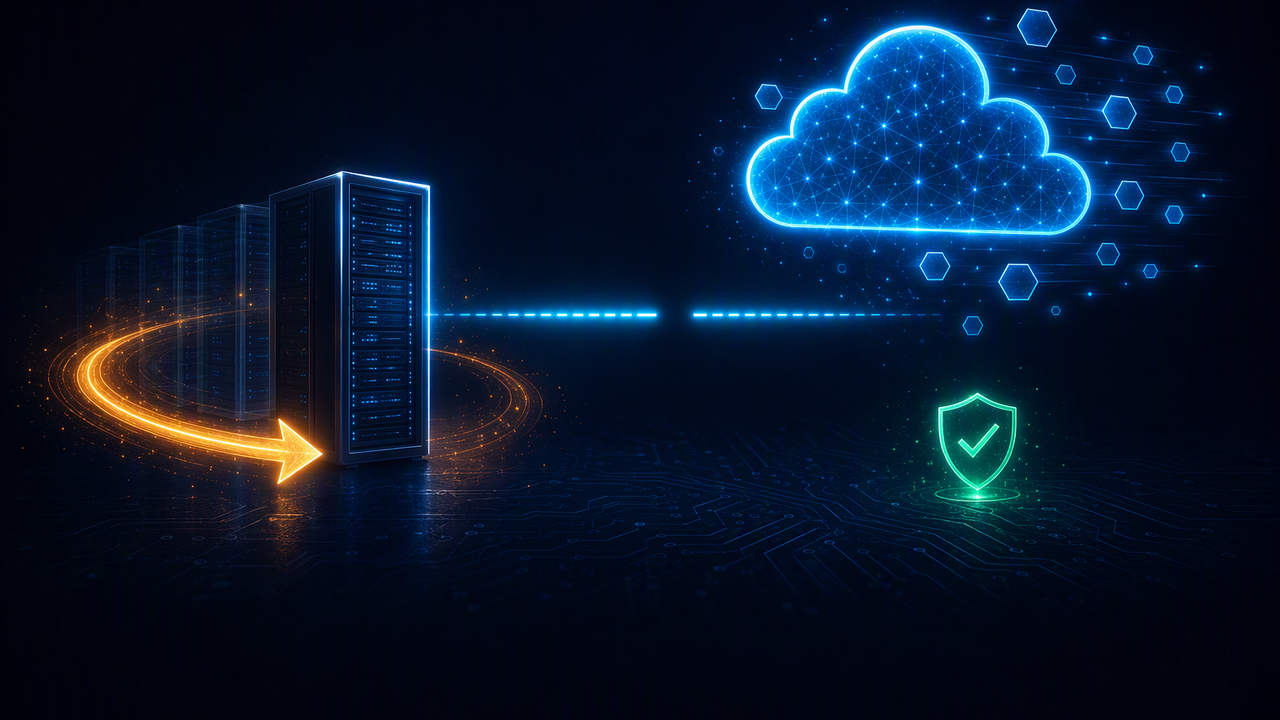
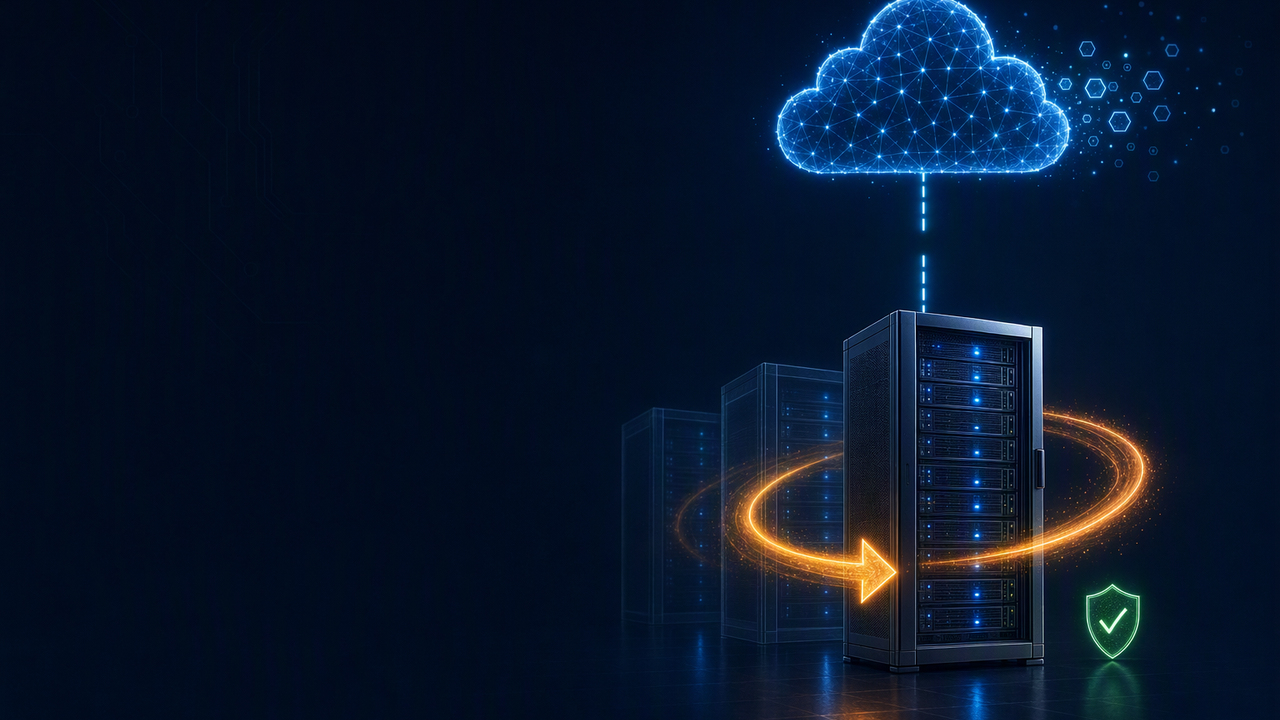
feat: サムネイルを全面的に作り直し (#28)
図の上に文字を重ねる構成をやめ、左45%をテキスト専用の余白として
背景を生成し直した。文字は図に一切かからない。

- 背景プロンプトに「左45%はほぼ空にする」を明示（quality=high で再生成）
- 左に ロゴ / Azure Arc / 見出し2行 / 開催日 を縦に整列
- テキスト幅は _fit() でゾーン内に自動収束させ、図へのはみ出しを防止

diff --git a/HCCJP_77/make_thumbnail.py b/HCCJP_77/make_thumbnail.py
@@ -1,18 +1,19 @@
 #!/usr/bin/env python3
 """HCCJP 第77回サムネイル合成スクリプト（再現用）
 
-thumbnail_bg.png（GPT Image 2 生成・文字ゼロ）に、見出し・開催日・HCCJPの実ロゴを
-合成して thumbnail.png を出力する。
+thumbnail_bg.png（GPT Image 2 生成・文字ゼロ）の左側の余白へ、見出し・開催日・
+HCCJPの実ロゴを合成して thumbnail.png を出力する。
 
-背景に文字を描かせない方針:
-    画像生成に文字を描かせると、指示していない年号・ラベル・数値が捏造される。
-    背景は象徴図のみとし、日本語はすべてこのスクリプトで載せる。
+設計:
+  - 背景は「左45%を空ける」ことを条件に生成し、文字は図に一切重ねない
+  - 画像生成に文字を描かせると年号やラベルが捏造されるため、日本語はすべてここで載せる
+  - ロゴもAIに描かせず実ファイル（Images/hcc-logo02f.png）を合成する
 
 背景の再生成:
     python3 ~/.claude/skills/image-gen/scripts/gpt_image.py \
-        --prompt-file thumbnail_prompt.txt --size 1536x1024 --quality medium \
+        --prompt-file thumbnail_prompt.txt --size 1536x1024 --quality high \
         --output thumbnail_bg_raw.png
-    # 1536x1024 -> 1280x853 に縮小し、上下をセンタークロップして 1280x720 にする
+    python3 -c "from PIL import Image; im=Image.open('thumbnail_bg_raw.png').resize((1280,853), Image.LANCZOS); im.crop((0,66,1280,786)).save('thumbnail_bg.png')"
 
 使い方:
     python3 make_thumbnail.py
@@ -32,26 +33,41 @@ OUT_PATH = HERE / "thumbnail.png"
 LABEL = "Azure Arc"
 LINE1 = "便利なのはわかった。"
 LINE2 = "で、壊れたら？"
-DATE_TEXT = "HCCJP 第77回  2026.9.11(金) 14:00〜"
+DATE_TEXT = "HCCJP 第77回   2026.9.11(金) 14:00〜"
 
-LOGO_HEIGHT = 118
-CYAN = (94, 214, 255, 255)
+MARGIN_X = 52          # 左マージン
+TEXT_ZONE_RIGHT = 610  # ここより右は図。文字を絶対にはみ出させない
+LOGO_HEIGHT = 96
+
+AZURE_BLUE = (0, 120, 212, 255)
+CYAN = (110, 220, 255, 255)
 WHITE = (255, 255, 255, 255)
-DARK = (4, 10, 26, 255)
+DARK = (3, 8, 20, 255)
 
 
-def _font(size: int, style: str = "Bold") -> ImageFont.FreeTypeFont:
+def _font(size: int) -> ImageFont.FreeTypeFont:
     path = subprocess.run(
-        ["fc-match", "-f", "%{file}", f"Noto Sans CJK JP:style={style}"],
+        ["fc-match", "-f", "%{file}", "Noto Sans CJK JP:style=Bold"],
         capture_output=True, text=True, check=True,
     ).stdout.strip()
     if not path:
-        raise RuntimeError("日本語フォントが見つかりません（Noto Sans CJK JP）")
+        raise RuntimeError("日本語太字フォントが見つかりません（Noto Sans CJK JP）")
     return ImageFont.truetype(path, size)
 
 
-def _outlined(draw: ImageDraw.ImageDraw, xy, text, font, fill, width: int = 6) -> None:
-    """濃い縁取りつきで描く。暗い背景でも図の上でも読めるようにする。"""
+def _fit(text: str, start: int, limit: int) -> ImageFont.FreeTypeFont:
+    """テキストゾーンに収まる最大サイズのフォントを返す。"""
+    probe = ImageDraw.Draw(Image.new("RGB", (1, 1)))
+    size = start
+    while size > 12:
+        font = _font(size)
+        if probe.textbbox((0, 0), text, font=font)[2] <= limit:
+            return font
+        size -= 2
+    return _font(12)
+
+
+def _outlined(draw, xy, text, font, fill, width: int = 5) -> None:
     x, y = xy
     for dx in range(-width, width + 1, 2):
         for dy in range(-width, width + 1, 2):
@@ -63,60 +79,50 @@ def _outlined(draw: ImageDraw.ImageDraw, xy, text, font, fill, width: int = 6) -
 def build() -> Image.Image:
     base = Image.open(BG_PATH).convert("RGBA")
     width, height = base.size
+    zone = TEXT_ZONE_RIGHT - MARGIN_X
 
-    # 下半分を暗く落として文字を読みやすくする
+    # 左のテキストゾーンだけを軽く沈める（図には掛けない）
     veil = Image.new("RGBA", base.size, (0, 0, 0, 0))
-    vd = ImageDraw.Draw(veil)
-    for i in range(400):
-        y = height - 400 + i
-        vd.line([(0, y), (width, y)], fill=(4, 10, 26, int(225 * (i / 400) ** 0.7)))
+    ImageDraw.Draw(veil).rectangle([0, 0, TEXT_ZONE_RIGHT + 60, height], fill=(3, 8, 20, 96))
     composed = Image.alpha_composite(base, veil)
     draw = ImageDraw.Draw(composed)
 
-    # 見出し（下部・左寄せ）。Azure Arc を見出しと同格の大きさで最上段に置く
-    f0 = _font(72)
-    f1 = _font(50)
-    f2 = _font(104)
-    x = 56
-    y0 = height - 360
-    y1 = y0 + 100
-    y2 = y1 + 72
+    f_label = _fit(LABEL, 66, zone - 60)
+    f1 = _fit(LINE1, 54, zone)
+    f2 = _fit(LINE2, 86, zone)
 
-    # Azure Arc — Azureブルーの帯に白抜き。サムネが小さく表示されても主題が読める
-    lw = draw.textbbox((0, 0), LABEL, font=f0)[2]
+    y_label = 250
+    lw = draw.textbbox((0, 0), LABEL, font=f_label)[2]
+    lh = draw.textbbox((0, 0), LABEL, font=f_label)[3]
     bar = Image.new("RGBA", composed.size, (0, 0, 0, 0))
-    bdr = ImageDraw.Draw(bar)
-    bdr.rounded_rectangle(
-        [x - 26, y0 - 20, x + lw + 30, y0 + 96], radius=18, fill=(0, 120, 212, 240)
-    )
-    bdr.rounded_rectangle(
-        [x - 26, y0 - 20, x + lw + 30, y0 + 96], radius=18, outline=(150, 225, 255, 255), width=4
+    ImageDraw.Draw(bar).rounded_rectangle(
+        [MARGIN_X - 22, y_label - 16, MARGIN_X + lw + 26, y_label + lh + 20],
+        radius=16, fill=AZURE_BLUE,
     )
     composed = Image.alpha_composite(composed, bar)
     draw = ImageDraw.Draw(composed)
-    _outlined(draw, (x, y0), LABEL, f0, WHITE, width=4)
+    _outlined(draw, (MARGIN_X, y_label), LABEL, f_label, WHITE, width=3)
 
-    _outlined(draw, (x, y1), LINE1, f1, CYAN, width=5)
-    _outlined(draw, (x, y2), LINE2, f2, WHITE, width=7)
+    y1 = y_label + lh + 58
+    _outlined(draw, (MARGIN_X, y1), LINE1, f1, CYAN, width=4)
 
-    # 開催日（右下）
-    fd = _font(31)
-    dw = draw.textbbox((0, 0), DATE_TEXT, font=fd)[2]
-    _outlined(draw, (width - dw - 48, height - 56), DATE_TEXT, fd, WHITE, width=4)
+    y2 = y1 + draw.textbbox((0, 0), LINE1, font=f1)[3] + 26
+    _outlined(draw, (MARGIN_X, y2), LINE2, f2, WHITE, width=6)
 
-    # ロゴ（左上）。ロゴ下部の "hybrid cloud community" は黒文字のため白バッジを敷く
+    # 開催日は最下部。テキストゾーンの中に収める
+    fd = _fit(DATE_TEXT, 30, zone)
+    _outlined(draw, (MARGIN_X, height - 62), DATE_TEXT, fd, (200, 225, 250, 255), width=3)
+
+    # ロゴは左上。下部の "hybrid cloud community" が黒文字のため白バッジを敷く
     logo = Image.open(LOGO_PATH).convert("RGBA")
     logo = logo.resize(
         (round(logo.width * LOGO_HEIGHT / logo.height), LOGO_HEIGHT), Image.LANCZOS
     )
-    pos = (46, 40)
+    pos = (MARGIN_X + 4, 62)
     badge = Image.new("RGBA", composed.size, (0, 0, 0, 0))
     bd = ImageDraw.Draw(badge)
-    box = [pos[0] - 18, pos[1] - 14, pos[0] + logo.width + 18, pos[1] + logo.height + 12]
-    bd.rounded_rectangle(
-        [box[0] - 3, box[1] - 3, box[2] + 3, box[3] + 3], radius=22, fill=(90, 180, 255, 90)
-    )
-    bd.rounded_rectangle(box, radius=20, fill=(255, 255, 255, 242))
+    box = [pos[0] - 16, pos[1] - 12, pos[0] + logo.width + 16, pos[1] + logo.height + 10]
+    bd.rounded_rectangle(box, radius=18, fill=(255, 255, 255, 240))
     composed = Image.alpha_composite(composed, badge)
     composed.alpha_composite(logo, pos)
 
